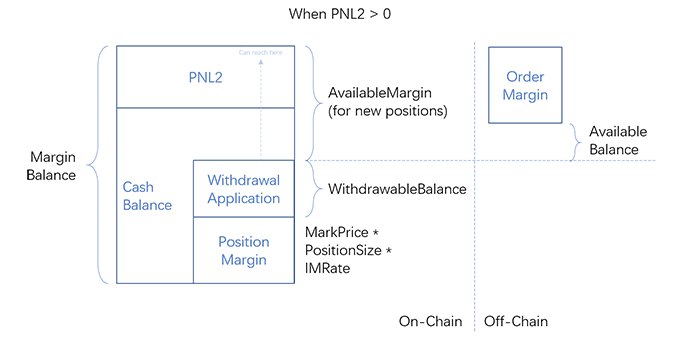
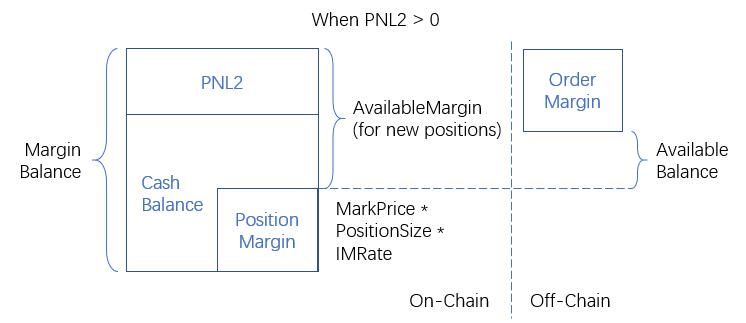
remove withdraw application

diff --git a/en/perpetual-interfaces.md b/en/perpetual-interfaces.md
@@ -14,15 +14,8 @@ Return cash balance storage variables of guy, which is defined as:
 struct CollateralAccount {
     // current deposited erc20 token amount, representing in decimals 18
     int256 balance;
-    // the amount of withdrawal applied by user
-    // which allowed to withdraw in the future but not available in trading
-    int256 appliedBalance;
-    // applied balance will be applied only when the block height below is reached
-    uint256 appliedHeight;
 }
 ```
-
-See "Broker & Withdraw Time Lock" section in the [references page](https://mcdex.io/references/#/en/perpetual?id=trade-with-the-order-book) for the design of time lock.
 
 ```solidity
 deposit(uint256 amount)
@@ -167,44 +160,6 @@ liquidate(address guy, uint256 maxAmount) public returns (uint256, uint256) NORM
 Liquidate bites a part of position from an unsafe account (See isSafe for definition of unsafe) to make it safe again. The call should have enough margin to hold the bitten positions or the call will fail.
 
 All losses generated by liquidate will be removed from insurance fund first if possible, or the loss will become social loss.
-
------
-
-**Interact with brokers:**
-
-Broker is a actor who helps trader to accomplish order book trading. Broker is set by trader, with a few blocks delay.
-
-To receive trading fee, a broker must assign positive maker/taker fee rate in order data structure. And if given a negative trading fee, the broker will pay trader for making / taking order.
-
-There are two typically value of broker:
-
-- broker is set to a contract call who calls match method of exchange methods (order book trading);
-- broker is set to address of AMM (perpetual proxy actually) to enable AMM trading.
-
-Trader cannot apply both the trading modes above since the broker variable can hold exactly one address at the same time.
-
-There is a delay mechanism on setting broker address, see "Broker & Withdraw Time Lock" section in the [references page](https://mcdex.io/references/#/en/perpetual?id=trade-with-the-order-book) for the design of time lock.
-
-Perpetual contract provider interface of setting brokers, but the applying delay is determined by global config.
-
-```solidity
-currentBroker(address trader)
-```
-
-Return current broker's address of given trader address. If last setting is not applied, this function will return last applied broker address.
-
-
-```solidity
-setBroker(address broker)
-```
-
-Set caller's broker to given account.
-
-```solidity
-getBroker(address trader)
-```
-
-Return broker storage of given account. For normal case, trader should call currentBroker instead.
 
 -----
 

diff --git a/en/margin-account-model.md b/en/margin-account-model.md
@@ -8,12 +8,10 @@
 | MarginBalance | `CashBalance + PNL2` |
 | PositionMargin | `MarkPrice * PositionSize * IMRate` |
 | MaintenanceMargin | `MarkPrice * PositionSize * MMRate` |
-| AvailableMargin | The balance that can open new positions = `MarginBalance - PositionMargin - WithdrawalApplicationAmount` |
-| WithdrawableBalance | `MIN(MarginBalance - PositionMargin, WithdrawalApplicationAmount)` |
+| AvailableMargin | The balance that can open new positions = `MarginBalance - PositionMargin` |
 | IsSafe | `MarginBalance >= MaintenanceMargin` |
 | PNL1 | Long position: `(MarkPrice - AvgEntryPrice) * PositionSize`<br>Short position: `(AvgEntryPrice - MarkPrice) * PositionSize` |
 | PNL2 | `PNL1 - SocialLoss - FundingLoss` |
-| WithdrawalApplicationAmount | Total number of withdrawal application submitted by the user |
 
 ## Off-Chain part
 
